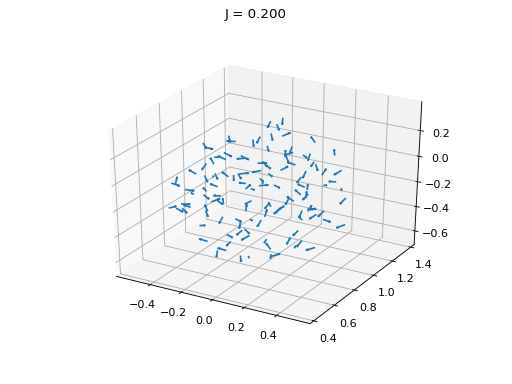
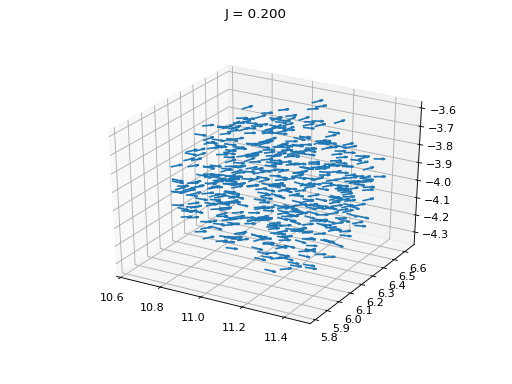
.

diff --git a/plots.py b/plots.py
@@ -93,17 +93,17 @@ def phase_change_plot(cm):
 
 def main():
     cm = CollectiveMotion()
-    # for J in (0.001, 0.07, 0.2):
-    #     t0 = time.time()
-    #     x,v = cm.simulate_particles(J = J,
-    #                                 N = 128,
-    #                                 n_steps = 1200)
-    #     t1 = time.time()
-    #     print 'simulation took %.05f seconds' % (t1 - t0)
-    #     quiverplot_final_state(x,v,J)
-    #     quiverplot_animation(x,v,J)
+    for J in (0.001, 0.07, 0.2):
+        t0 = time.time()
+        x,v = cm.simulate_particles(J = J,
+                                    N = 512,
+                                    n_steps = 400)
+        t1 = time.time()
+        print 'simulation took %.05f seconds' % (t1 - t0)
+        quiverplot_final_state(x,v,J)
+        #quiverplot_animation(x,v,J)
 
-    phase_change_plot(cm)
+    #phase_change_plot(cm)
 
 
 if __name__=='__main__':

diff --git a/CollectiveMotion.py b/CollectiveMotion.py
@@ -96,7 +96,7 @@ class CollectiveMotion:
         particle_probability = probability(pos_[-1], vel_[-1])
 
         self.f = theano.function([pos, vel, nc, ra, rb, r0, re, j, v0, b, N, n_steps],
-                                 [pos_, vel_], 
+                                 [pos_, vel_],
                                  allow_input_downcast=True)
 
         self.g = theano.function([pos, vel, nc, ra, rb, r0, re, j, v0, b, N, n_steps],

diff --git a/README.md b/README.md
@@ -1,1 +1,14 @@
 # CoMoThe
+
+
+<p align="center">
+<img src="https://github.com/JamesUnicomb/CoMoThe/blob/master/figures/CollectiveMotion_0.001.gif" width="480" />
+</p>
+
+<p align="center">
+<img src="https://github.com/JamesUnicomb/CoMoThe/blob/master/figures/CollectiveMotion_0.07.gif" width="480" />
+</p>
+
+<p align="center">
+<img src="https://github.com/JamesUnicomb/CoMoThe/blob/master/figures/CollectiveMotion_0.2.gif" width="480" />
+</p>
